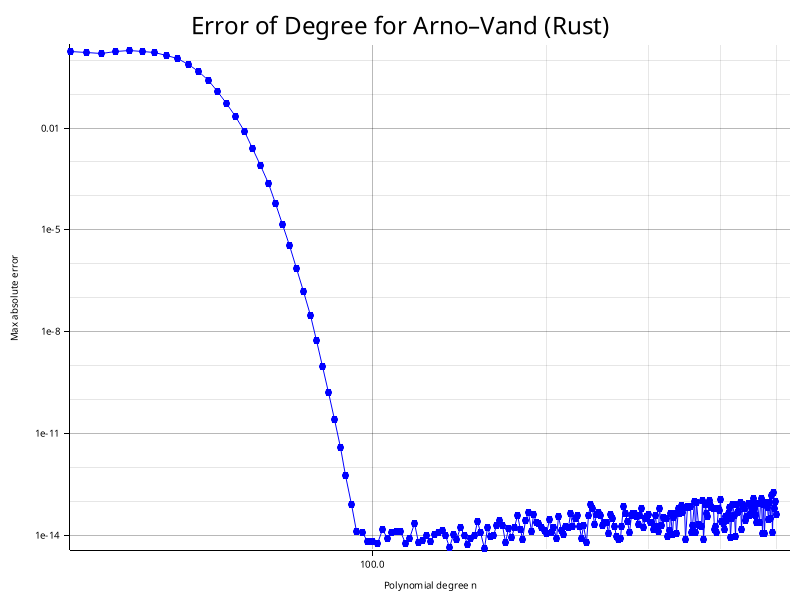
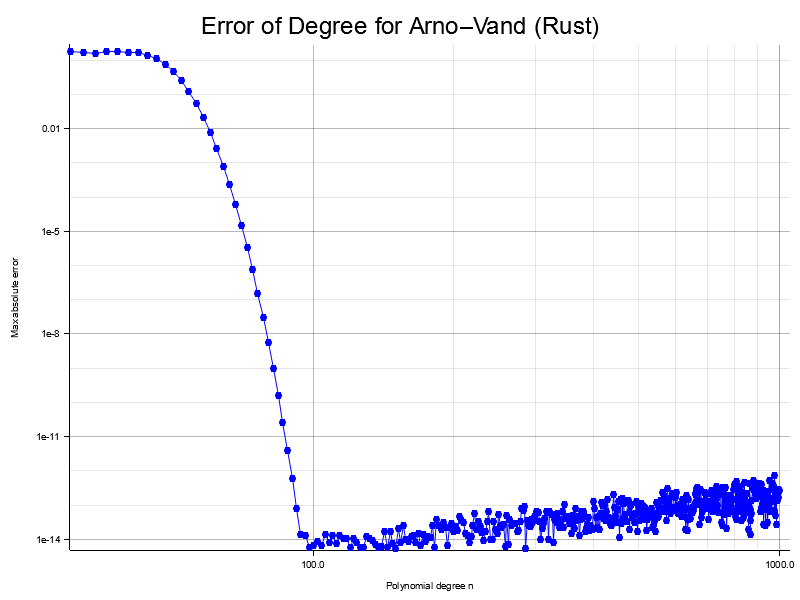
1.4win1

diff --git a/src/bin/arnoldivandermond.rs b/src/bin/arnoldivandermond.rs
@@ -3,7 +3,7 @@ use std::f64::consts::PI;
 
 fn main() -> Result<(), Box<dyn std::error::Error>> {
     // 1. 设置参数 n 从 30 到 1000
-    let n_list: Vec<usize> = (30..=500).step_by(2).collect();
+    let n_list: Vec<usize> = (30..=1000).step_by(2).collect();
 
     // 2. 准备评估点 s = -10:0.05:10
     // 手动生成 grid
